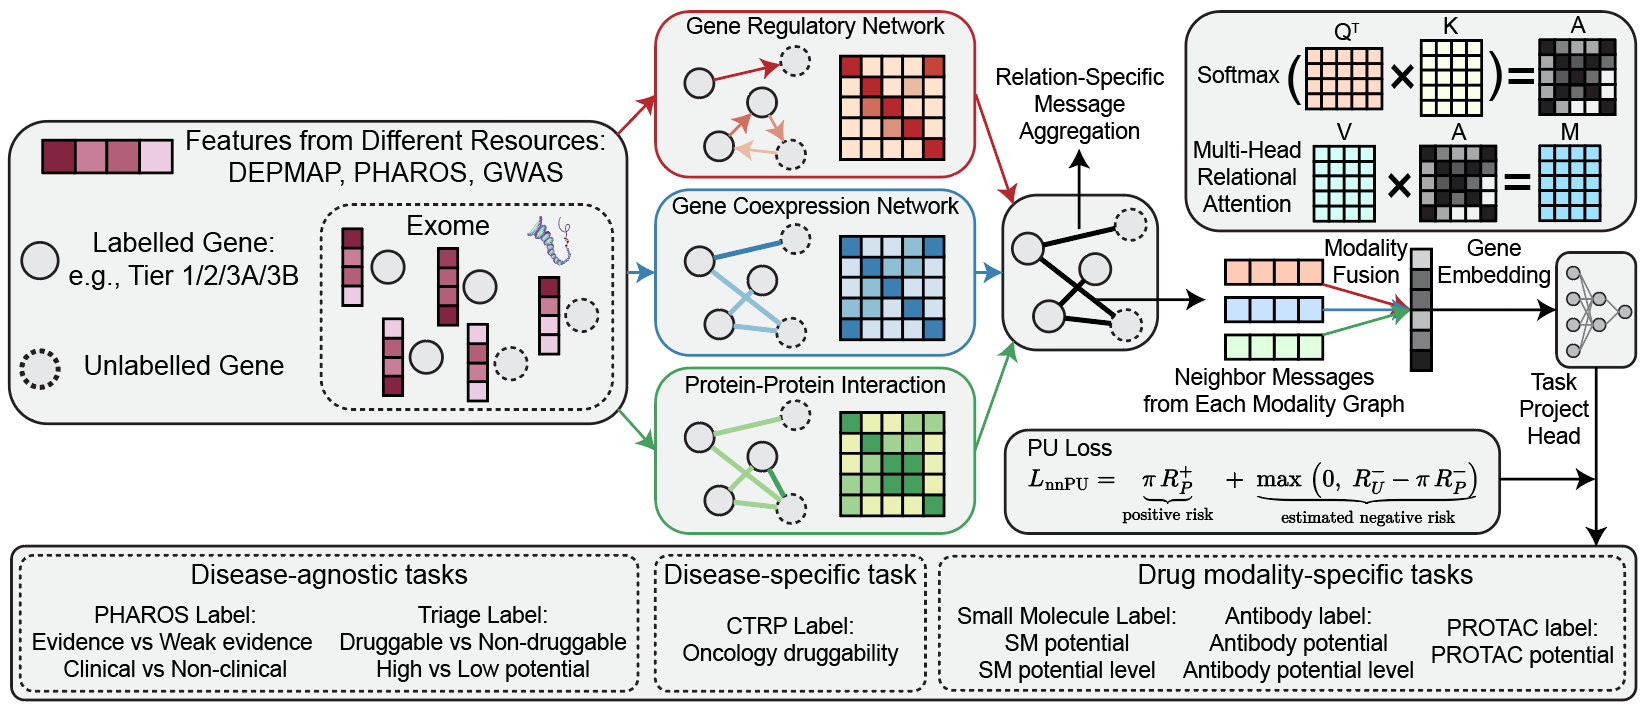
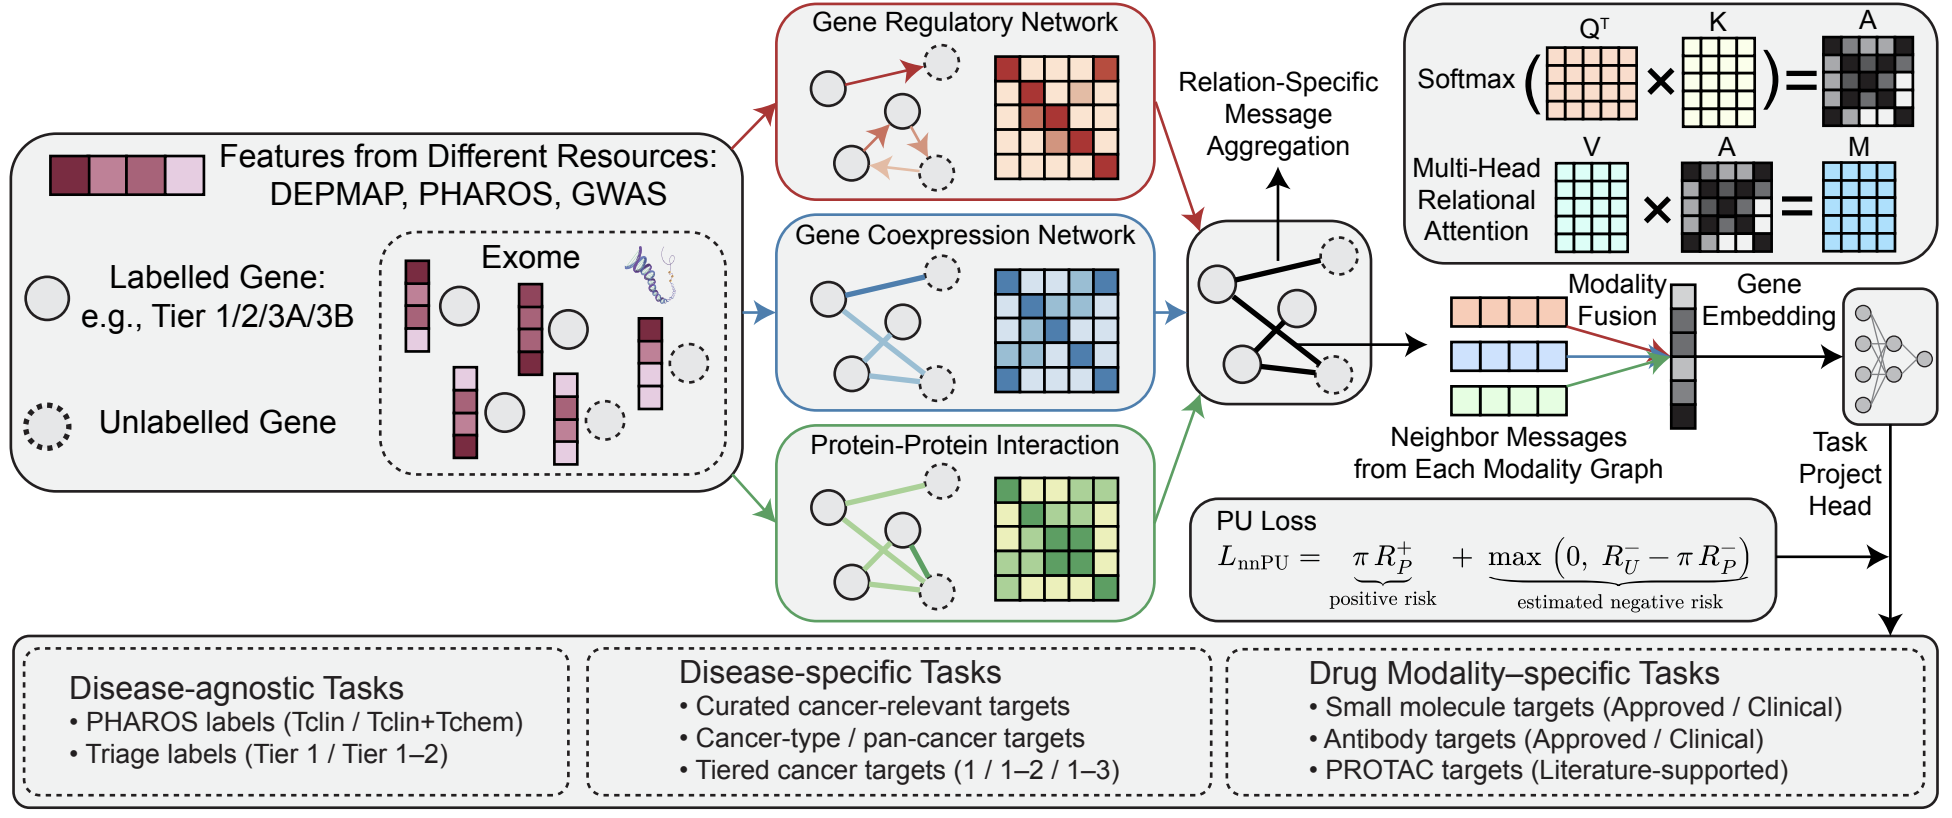
update tasks

Changed region(s): [[0.0, 0.0, 1.0, 0.9915]]

diff --git a/config.py b/config.py
@@ -12,7 +12,7 @@ from pathlib import Path
 # ===============================================================================
 
 # Data paths
-DATA_DIR = Path('/home/zihend1/Genesis/KNOT_v0/data')
+DATA_DIR = Path('/home/zihend1/Genesis/Data/TargetIdentification/data')
 FEATURES_FILE = DATA_DIR / 'gene_features.tsv'
 LABELS_FILE = DATA_DIR / 'gene_labels.tsv'
 OUTPUT_DIR = Path('./results')
@@ -279,79 +279,124 @@ FEATURE_CONFIGS = {
 # ===============================================================================
 
 DRUGGABILITY_TASKS = {
-    # Pharos-based tasks
-    'tclin_vs_others': {
+
+    # ============================================================
+    # PHAROS-based tasks (Disease-agnostic)
+    # ============================================================
+    'pharos_tclin_vs_others': {
         'label_col': 'task_pharos_tclin_vs_others',
-        'display_name': 'Tclin vs Others (Approved Targets)',
-        'description': 'Identify FDA-approved drug targets (Tclin)',
+        'display_name': 'Clinical Targets (Tclin)',
+        'description': 'Identify clinically validated FDA-approved drug targets (Tclin) versus all other genes',
         'task_type': 'binary'
     },
-    'tclin_tchem_vs_others': {
+
+    'pharos_tclin_tchem_vs_others': {
         'label_col': 'task_pharos_tclin_tchem_vs_others',
-        'display_name': 'Tclin+Tchem vs Others (Strong Evidence)',
-        'description': 'Distinguish strong evidence (Tclin+Tchem) vs weak evidence',
+        'display_name': 'Clinical & Chemical Targets (Tclin+Tchem)',
+        'description': 'Identify targets with clinical or strong chemical evidence (Tclin or Tchem) versus others',
         'task_type': 'binary'
     },
-    
-    # Triage-based tasks
-    'tier1_vs_others': {
+
+    # ============================================================
+    # Triage assessment tasks (Disease-agnostic)
+    # ============================================================
+    'triage_tier1_vs_others': {
         'label_col': 'task_triage_tier1_vs_others',
-        'display_name': 'Tier1 vs Others (High Confidence)',
-        'description': 'Identify highest confidence druggable targets',
+        'display_name': 'Top-Tier Targets (Tier 1)',
+        'description': 'Identify highest-confidence druggable targets assessed as Tier 1',
         'task_type': 'binary'
     },
-    'tier12_vs_others': {
+
+    'triage_tier12_vs_others': {
         'label_col': 'task_triage_tier12_vs_others',
-        'display_name': 'Tier1+2 vs Others (Known Druggable)',
-        'description': 'Identify known druggable targets (Tier1+2)',
+        'display_name': 'High-Confidence Targets (Tier 1–2)',
+        'description': 'Identify high-confidence druggable targets assessed as Tier 1 or Tier 2',
         'task_type': 'binary'
     },
-    
-    # Domain-specific tasks
-    'cancer_druggability': {
+
+    # ============================================================
+    # Cancer druggability tasks (Domain-specific)
+    # ============================================================
+    'cancer_relevant_targets': {
         'label_col': 'task_cancer_druggability',
-        'display_name': 'Cancer Druggability',
-        'description': 'Predict cancer-specific druggability',
+        'display_name': 'Cancer-Relevant Targets',
+        'description': 'Predict druggable targets curated as relevant to cancer biology',
         'task_type': 'binary'
     },
-    
-    # Antibody modality tasks
-    'ab_bucket1_vs_others': {
-        'label_col': 'task_ab_bucket1_vs_others',
-        'display_name': 'AB Bucket1 vs Others',
-        'description': 'Top antibody targets vs others',
+
+    'cancer_type_specific_targets': {
+        'label_col': 'task_cancer_type_specific_target_prioritization',
+        'display_name': 'Cancer-Type-Specific Targets',
+        'description': 'Predict druggable targets specific to individual cancer types',
         'task_type': 'binary'
     },
-    'ab_bucket123_vs_others': {
-        'label_col': 'task_ab_bucket123_vs_others',
-        'display_name': 'AB Bucket1-3 vs Others',
-        'description': 'Antibody druggable targets (Bucket1-3)',
+
+    'pan_cancer_targets': {
+        'label_col': 'task_pan_cancer_target_prioritization',
+        'display_name': 'Pan-Cancer Targets',
+        'description': 'Predict druggable targets recurrently implicated across multiple cancer types',
         'task_type': 'binary'
     },
-    
-    # Small molecule modality tasks
+
+    'pan_cancer_T1_targets': {
+        'label_col': 'task_T1_targets_only',
+        'display_name': 'Tier 1 Cancer Targets',
+        'description': 'Identify cancer drug targets with approved therapeutic evidence (Tier 1)',
+        'task_type': 'binary'
+    },
+
+    'pan_cancer_T12_targets': {
+        'label_col': 'task_T1_T2_targets',
+        'display_name': 'Tier 1–2 Cancer Targets',
+        'description': 'Identify approved or repurposed cancer drug targets (Tier 1–2)',
+        'task_type': 'binary'
+    },
+
+    'pan_cancer_T123_targets': {
+        'label_col': 'task_T1_T2_T3_targets',
+        'display_name': 'Tier 1–3 Cancer Targets',
+        'description': 'Identify approved or investigational cancer drug targets (Tier 1–3)',
+        'task_type': 'binary'
+    },
+
+    # ============================================================
+    # Drug modality-specific tasks (Domain-specific)
+    # ============================================================
     'sm_bucket1_vs_others': {
         'label_col': 'task_sm_bucket1_vs_others',
-        'display_name': 'SM Bucket1 vs Others',
-        'description': 'Top small molecule targets vs others',
+        'display_name': 'Small Molecule Targets (Bucket 1)',
+        'description': 'Identify targets of approved small-molecule drugs (SM Bucket 1)',
         'task_type': 'binary'
     },
+
     'sm_bucket123_vs_others': {
         'label_col': 'task_sm_bucket123_vs_others',
-        'display_name': 'SM Bucket1-3 vs Others',
-        'description': 'Small molecule druggable targets (Bucket1-3)',
+        'display_name': 'Small Molecule Targets (Bucket 1–3)',
+        'description': 'Identify targets of approved or clinical-stage small-molecule drugs (SM Bucket 1–3)',
         'task_type': 'binary'
     },
-    
-    # PROTAC modality task
+
+    'ab_bucket1_vs_others': {
+        'label_col': 'task_ab_bucket1_vs_others',
+        'display_name': 'Antibody Targets (Bucket 1)',
+        'description': 'Identify targets of approved antibody therapeutics (AB Bucket 1)',
+        'task_type': 'binary'
+    },
+
+    'ab_bucket123_vs_others': {
+        'label_col': 'task_ab_bucket123_vs_others',
+        'display_name': 'Antibody Targets (Bucket 1–3)',
+        'description': 'Identify targets of approved or clinical-stage antibody therapeutics (AB Bucket 1–3)',
+        'task_type': 'binary'
+    },
+
     'protac_bucket1234_vs_others': {
         'label_col': 'task_protac_bucket1234_vs_others',
-        'display_name': 'PROTAC Bucket1-4 vs Others',
-        'description': 'PROTAC druggable targets (Bucket1-4)',
+        'display_name': 'PROTAC Targets (Bucket 1–4)',
+        'description': 'Identify targets supported by literature-curated PROTAC evidence (Bucket 1–4)',
         'task_type': 'binary'
     }
 }
-
 # Task order for display
 TASK_ORDER = [
     'tclin_vs_others',
